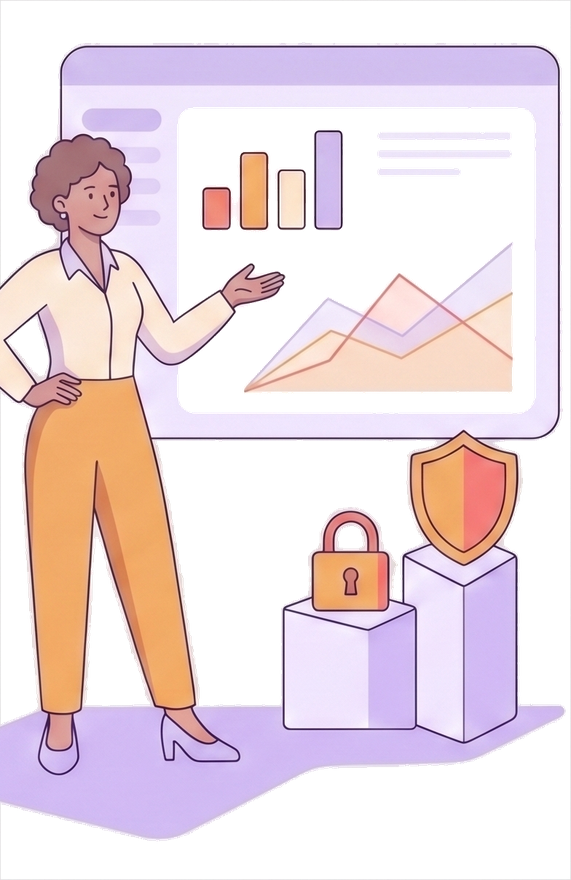
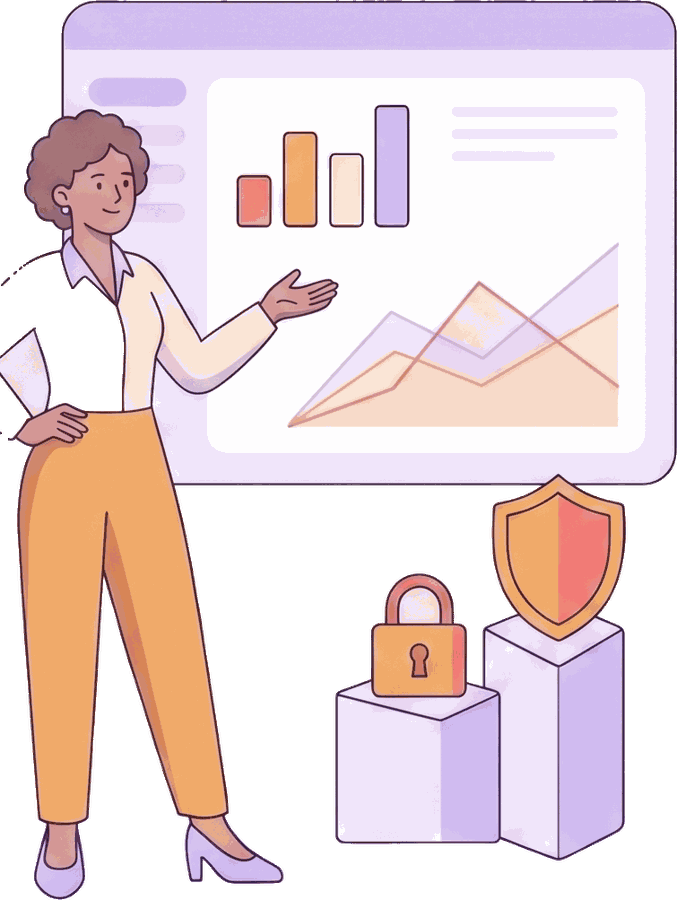
Strip the panel backdrop from the auth art and enlarge it
The illustrations carried a pale rectangle that was invisible on the old
lavender panel and obvious once the panel went indigo - 38-47% of each
asset's border ring was still opaque.

It took three wrong attempts to see why. The backdrop is not neutral grey,
so keying on saturation skipped it. Keying on lightness instead removed it
but also ate the artwork's own light fills - the dashboard screen, the plant
pot, the desk - because they are the same brightness. And insetting the crop
never helped because the leftover was not a frame: the panel's interior
backdrop is rgb(207,189,237) and the artwork's desk is rgb(211,188,242).
They are the same lavender. No colour test can separate them.

What separates them is space, not colour. A flood fill from outside the
image, through anything lighter than the ink, stops at the drawing's own
outlines - so the backdrop goes and everything enclosed by a line survives.
That leaves only the panel's frame, which is darker than the threshold and
so is walked around rather than through; a 14px band erased at the bounding
box removes it, and nothing drawn ever reaches that far.

Assets are also quantised to a 128-colour palette, which flat vector art
takes near-losslessly: 616KB and 624KB down to 55KB and 52KB, against the
581KB and 671KB originals.

Illustration grows from 340px to 400px. The content column narrows from 42vw
to 38vw to pay for it, moving its centre from 21vw to 19vw - worst-case
[…]

diff --git a/horizon-ui-chakra-nextjs-main/src/app/auth/_components/AuthSlider.tsx b/horizon-ui-chakra-nextjs-main/src/app/auth/_components/AuthSlider.tsx
@@ -64,11 +64,13 @@ const ROLL_DEGREES = 140;
 // being a mirror on the far side.
 const SLIDE_VW = 113.4;
 
-// The content column is 42vw wide and pinned left, so its centre sits at
-// 21vw - well inside the arc rather than at the half-panel's 25vw, where the
-// text ran past the curve as it narrowed toward the bottom. Its travel is
-// derived the same way as the shape's: 100 - 2*21.
-const CONTENT_WIDTH_VW = 42;
+// The content column is pinned left, so its centre sits at half its width -
+// 19vw, not the half-panel's 25vw, where copy ran past the curve as it
+// narrowed toward the bottom. Moving from 21vw to 19vw is what buys room for
+// the larger illustration: worst-case clearance at 21:9 goes from 5.0vh to
+// 6.5vh even with the art up from 340px to 400px. Travel is derived the same
+// way as the shape's, so the two can't drift apart.
+const CONTENT_WIDTH_VW = 38;
 const CONTENT_SLIDE_VW = 100 - CONTENT_WIDTH_VW;
 
 export function AuthSlider({ initialMode }: { initialMode: AuthMode }) {
@@ -160,7 +162,7 @@ export function AuthSlider({ initialMode }: { initialMode: AuthMode }) {
           they opened. */}
       <div
         style={{ transform: `translateX(${isSignin ? '0vw' : `${CONTENT_SLIDE_VW}vw`})`, transition }}
-        className="pointer-events-none absolute inset-y-0 left-0 hidden w-[42vw] lg:block"
+        className="pointer-events-none absolute inset-y-0 left-0 hidden w-[38vw] lg:block"
       >
         <PanelDecor />
 
@@ -175,7 +177,7 @@ export function AuthSlider({ initialMode }: { initialMode: AuthMode }) {
               never shows the gap of a fresh image decode. Sized off the
               viewport height so the art grows with the panel rather than
               sitting in a fixed box in the middle of a large arc. */}
-          <div className="relative h-[38vh] max-h-[360px] w-full max-w-[340px]">
+          <div className="relative h-[44vh] max-h-[420px] w-full max-w-[400px]">
             {(['signin', 'signup'] as const).map((key) => (
               <Image
                 key={key}
